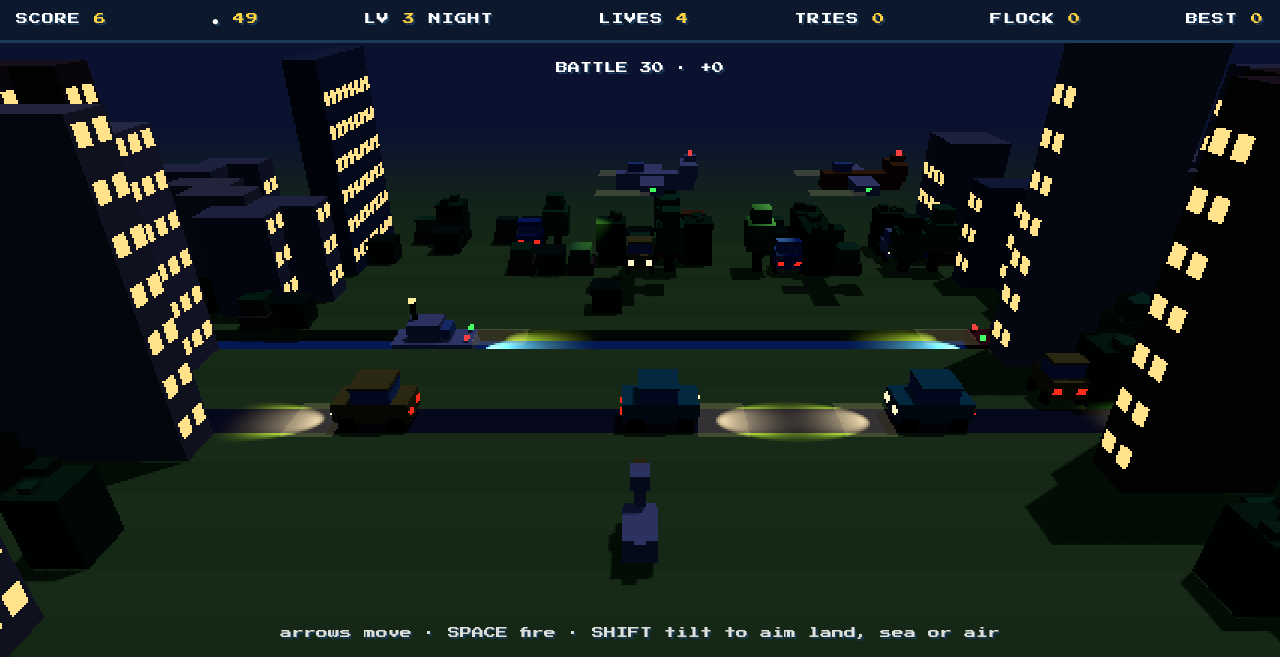
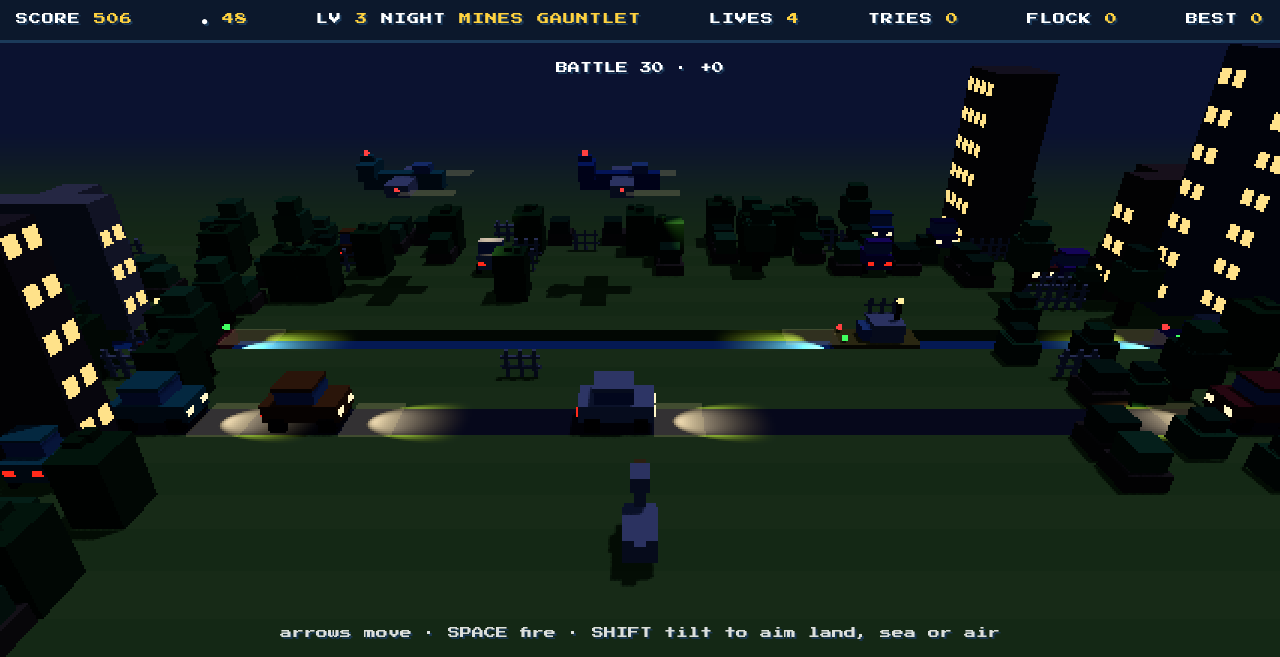
Fences run along rows or down columns; screenshot harness clears forced scenario before the minefield

diff --git a/src/scenery/residential.js b/src/scenery/residential.js
@@ -11,13 +11,13 @@ export default {
     const fp = (world.data.footprints ??= new Footprints());
     const lit = !!world.config.sky?.dark;
     for (const s of [-1, 1]) {
-      lane.add(makeFence(), s * (W + 1));
+      lane.add(makeFence('z'), s * (W + 1));         // property line down the column
       const [a, b] = s < 0 ? [-W - 7, -W - 2] : [W + 2, W + 7];
       if (!fp.occupied(lane.r, a, b) && Math.random() < 0.5) fp.plan(lane.r, a, b, buildingStyle('house', lit));
       if (Math.random() < 0.3) lane.add(makeTree(true), s * (W + 7.5));
     }
     for (const cell of fp.take(lane.r)) lane.add(makeBuildingCell(cell.style, cell.x < 0 ? 1 : -1), cell.x);
   },
-  obstacle: () => (Math.random() < 0.5 ? makeFence() : makeShrub()),
+  obstacle: () => (Math.random() < 0.5 ? makeFence(Math.random() < 0.5 ? 'x' : 'z') : makeShrub()),
   shelter: () => makeCanopy(makeParkedCar(), pick(0x8b3a2f, 0x4a4a55)),
 };

diff --git a/src/meshes.js b/src/meshes.js
@@ -290,13 +290,15 @@ export function buildingStyle(kind, lit) {
   return { h: rand(3, 8), color: pick(...BUILDING_COLORS), roof: null, windows: true, lit };
 }
 
-// Picket fence one cell long, running along x.
-export function makeFence() {
+// Picket fence one cell long. Runs along x by default; `along = 'z'` turns it
+// to run down the column so consecutive rows form a continuous line.
+export function makeFence(along = 'x') {
   const g = new THREE.Group();
   const c = 0xe9e4d6;
   g.add(box(1, 0.08, 0.08, c, 0, 0.55));
   g.add(box(1, 0.08, 0.08, c, 0, 0.25));
   for (const x of [-0.35, 0, 0.35]) g.add(box(0.1, 0.8, 0.1, c, x, 0));
+  if (along === 'z') g.rotation.y = Math.PI / 2;
   return g;
 }
 
